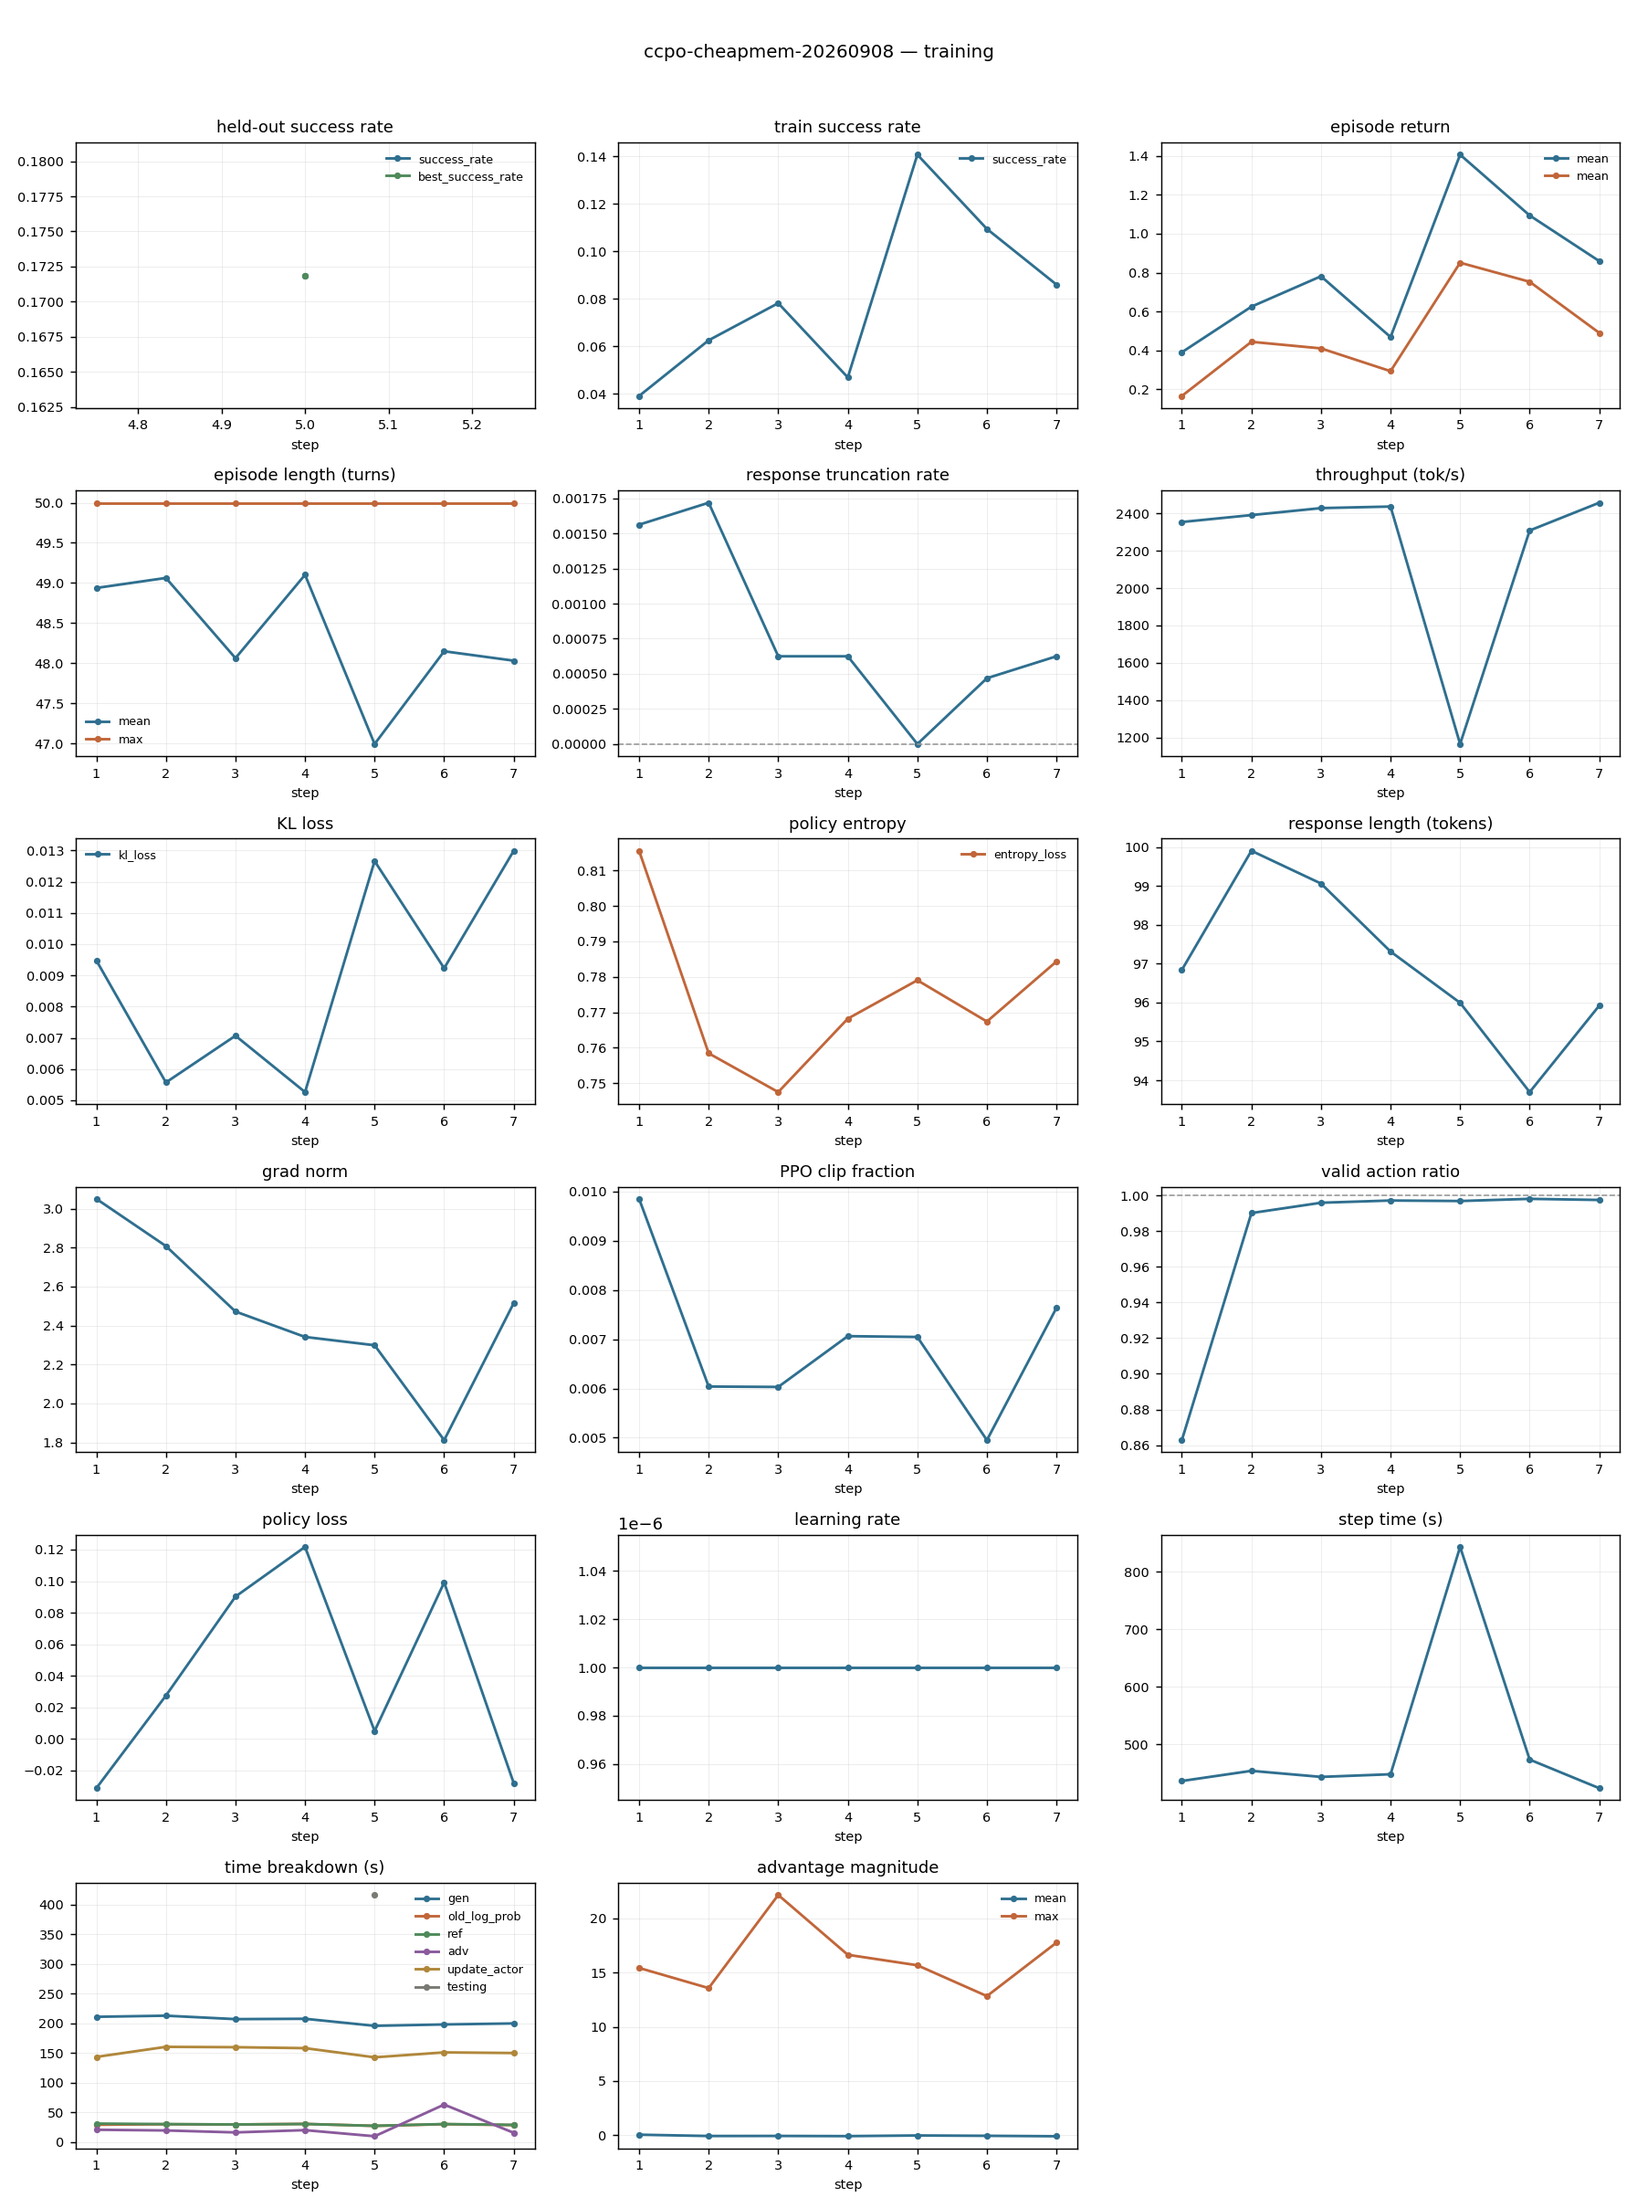
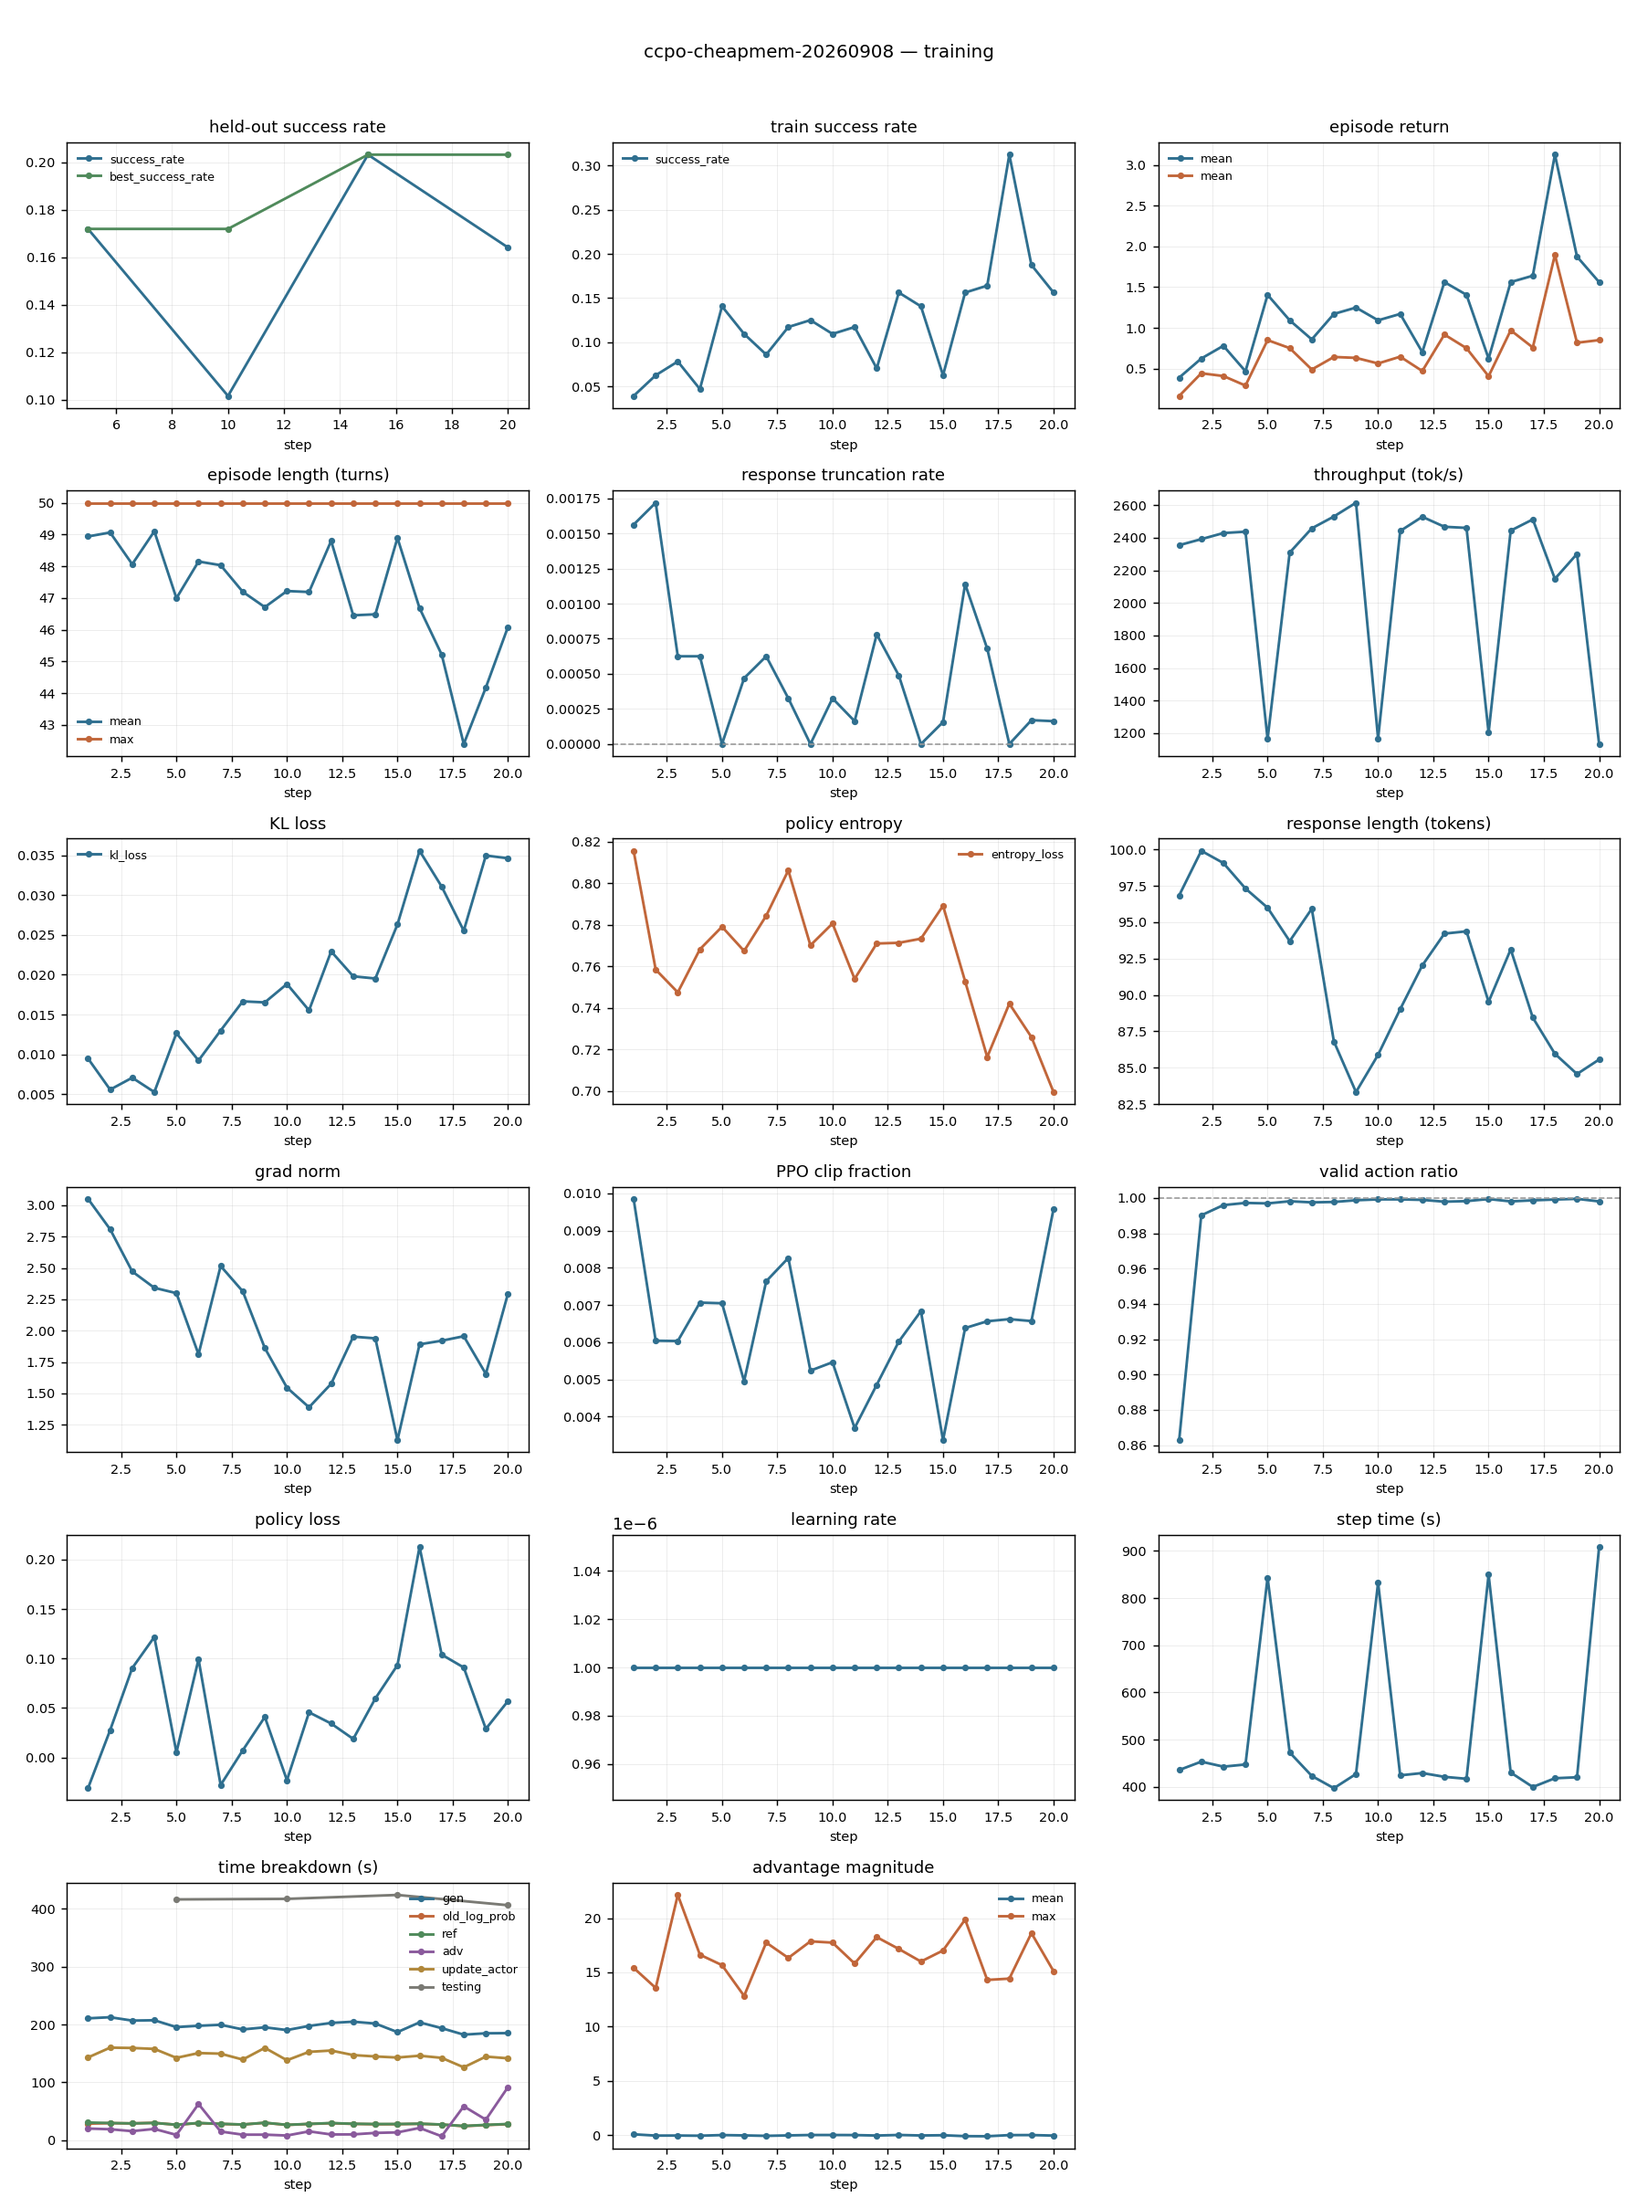
H-AC result: the digest's cost fix worked, the memory hypothesis did not
ccpo-cheapmem stopped cleanly at step 20 and passes both kill criteria -- train mean
0.148 over steps 10-20 against a 0.130 threshold, held-out 16.4% against a 15% floor --
making it the first digest arm to survive. The cost fix is real: both earlier digest
arms sat at 0.107 train, so cutting the budget 512->192 and replacing the recent window
instead of prepending removed essentially all the drag H-AA identified.

The memory hypothesis did not survive. Pooled over four evaluations the pre-registered
memory types average +1.5 and the others -0.1, a 1.6-point margin against a pooled
per-type SE of ~5, carried entirely by look_at_obj_in_light, the noisiest type.
pick_two_obj_and_place -- the tightest deficit and clearest memory demand -- is -0.9
pooled and exactly +0 at three of four evaluations. The step-20 'satisfied' reading
comes from the non-memory types drawing badly, not from memory types gaining.

Held-out at step 20 is 16.4% against base's 21.1%, so the arm's achievement is being not
worse than base. Fixing the cost of an intervention that does not help returns you to
baseline rather than moving toward 95. Three arms have now characterised this lever and
the recommendation is not to resume it; the kill rule permits continuation but does not
mandate it.

Also records that my prompt-overhead prediction was refuted: I said the +78 step-1
overhead reflected an untrained policy stalling more than the sweep's 36% and would
[…]

diff --git a/experiments/hypothesis.md b/experiments/hypothesis.md
@@ -81,7 +81,7 @@ damping POORLY-SAMPLED ones. The two disagree precisely where variance and suppo
 both high, so -2.08 on the first says nothing about the second.
 
 
-### [RUNNING] H-AC. `ccpo-cheapmem` — the digest at a twentieth of the cost
+### [RESULT — passes its kill rule, but the mechanism is null] H-AC. `ccpo-cheapmem` — the digest at a twentieth of the cost
 
 H-AA established that the digest's cost is real and its stated mechanism is not. H-Y's
 per-type split, pre-registered, still put both memory-demanding types at ranks 1 and 2
@@ -138,6 +138,50 @@ the 5.5x claimed above.**
 steps 10-20 is below 0.130 (base 0.160), or held-out at step 20 is below 15%.
 Continue only on the pre-registered per-type concentration, never on overall success
 alone.
+
+### RESULT at step 20 — the cost fix worked, the memory hypothesis did not
+
+```
+1. train mean 10-20   cheapmem 0.148   base 0.160   gatedmem 0.107   PASS (>0.130)
+2. held-out @20       cheapmem 16.4%   base 21.1%   gatedmem 15.6%   PASS (>15%)
+3. per-type pooled    memory +1.5      others -0.1                   "satisfied"
+```
+
+**What genuinely improved: the cost.** Train success over steps 10-20 is 0.148 against
+base's 0.160, where BOTH earlier digest arms sat at ~0.107. Cutting the budget 512->192
+and replacing the window instead of prepending removed essentially all of the digest's
+drag. That part of H-AA's diagnosis was correct and the fix worked.
+
+**What did not improve: anything the memory story predicts.** Pooled over four
+evaluations:
+
+| type | s5 | s10 | s15 | s20 | mean |
+|---|---|---|---|---|---|
+| *look_at_obj_in_light | +7 | +10 | -7 | +6 | **+3.9** |
+| *pick_two_obj_and_place | +0 | +0 | +0 | -4 | **-0.9** |
+| four non-memory types | | | | | **-0.1** |
+
+The continue condition is technically met (+1.5 vs -0.1) but **the margin is 1.6 points
+against a pooled per-type SE of ~5**, and it rests entirely on `look_at_obj_in_light`,
+the type with the LARGEST SE (6.8). `pick_two_obj_and_place` -- the tightest measured
+deficit and the clearest memory demand -- is **-0.9 pooled and exactly +0 at three of
+four evaluations.** The step-20 "satisfied" reading is produced by the non-memory types
+drawing badly (cool and heat both 0% against base's 16-17%), not by memory types gaining.
+
+**The honest summary: cheapmem's achievement is being *not worse* than base.** Held-out
+at step 20 is 16.4% against base's 21.1% -- still behind. Fixing the cost of an
+intervention that does not help returns you to baseline; it does not move you toward 95.
+
+**Three arms have now been spent on the digest** (`ccpo-memory`, `ccpo-gatedmem`,
+`ccpo-cheapmem`). The lever is characterised: its cost is real and now removable, its
+benefit is not measurable at this scale. Recommend NOT resuming to 100 unless the
+alternative uses are worse -- the kill rule permits continuation, it does not mandate it.
+
+**Prompt-overhead prediction: REFUTED.** I predicted the +78 step-1 overhead came from
+the untrained policy stalling more often than the sweep's 36%, and would therefore
+decline toward +35. Over 20 steps it never moved: +79 +79 +82 +85 +90 +78 +84 +81 +80
++85 ... +81. Either stalling does not fall over this range, or the firing rate was never
+the explanation.
 
 
 ### [OPEN — blocked on a decision] H-AB. Our config matches G2PO's published script exactly — the gap is not setup
